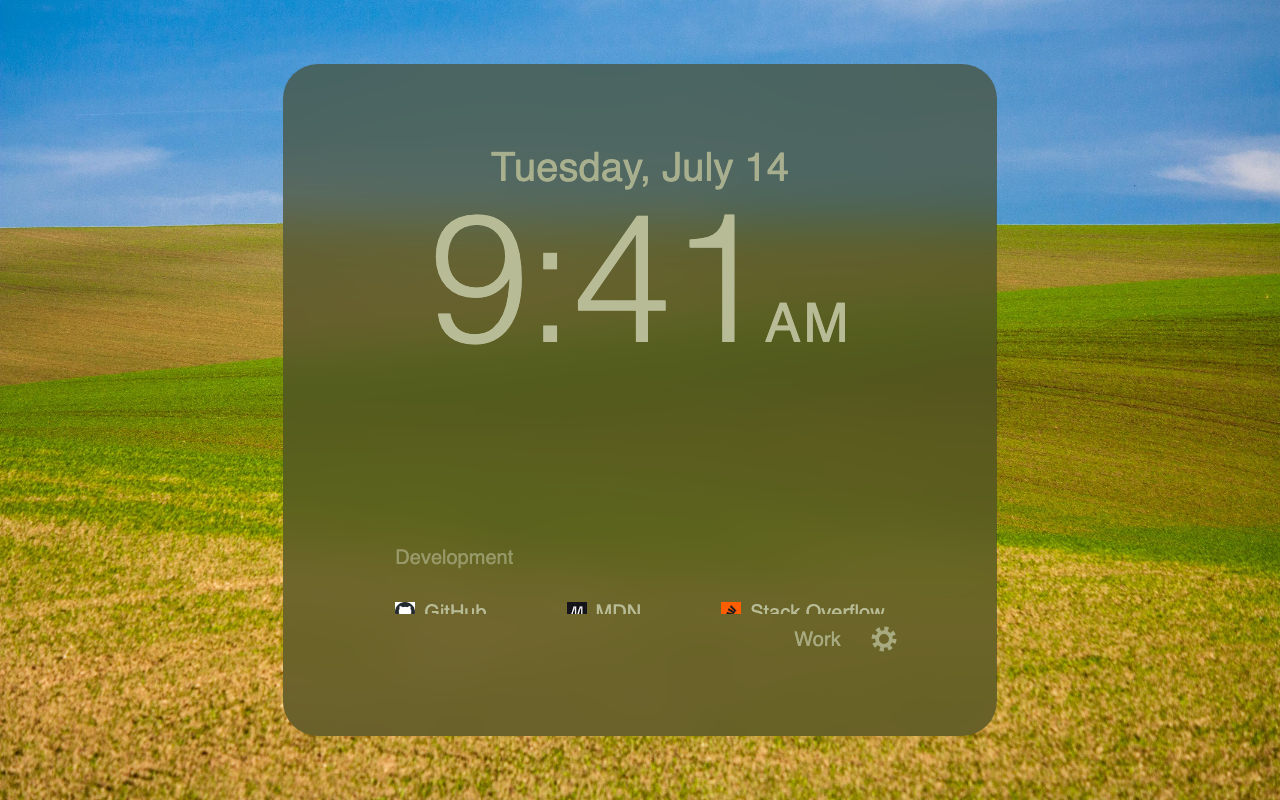
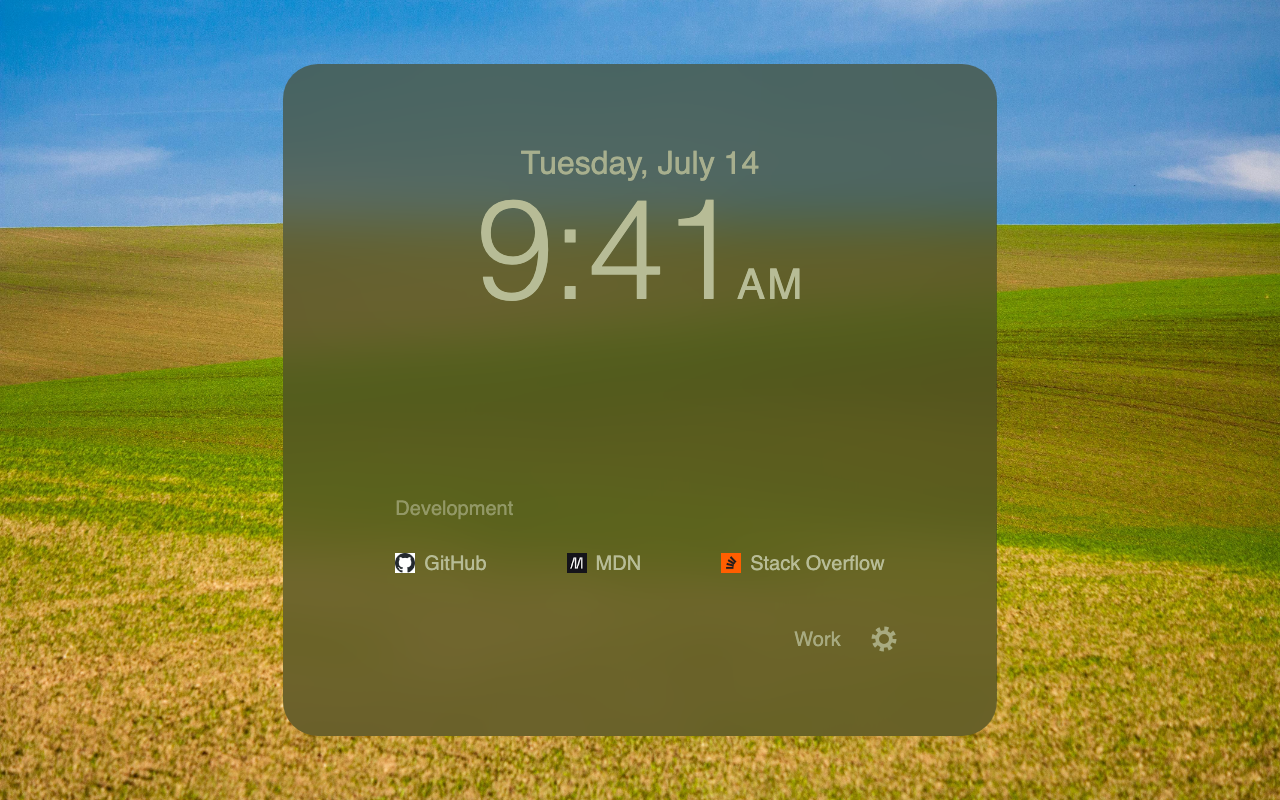
Shrink the Center clock relative to the rest of the panel
The lock-screen time goes from 9rem to 7rem and its date from 2rem to
1.6rem, so the clock no longer crowds out the links.

Regenerates the store screenshots.

diff --git a/panels.css b/panels.css
@@ -241,13 +241,13 @@ body[data-layout="center"] {
   }
 
   & .clock-date {
-    font-size: 2rem;
+    font-size: 1.6rem;
     font-weight: 500;
     opacity: 0.85;
   }
 
   & .clock-time {
-    font-size: 9rem;
+    font-size: 7rem;
     font-weight: 200;
     line-height: 1;
     letter-spacing: -0.02em;
